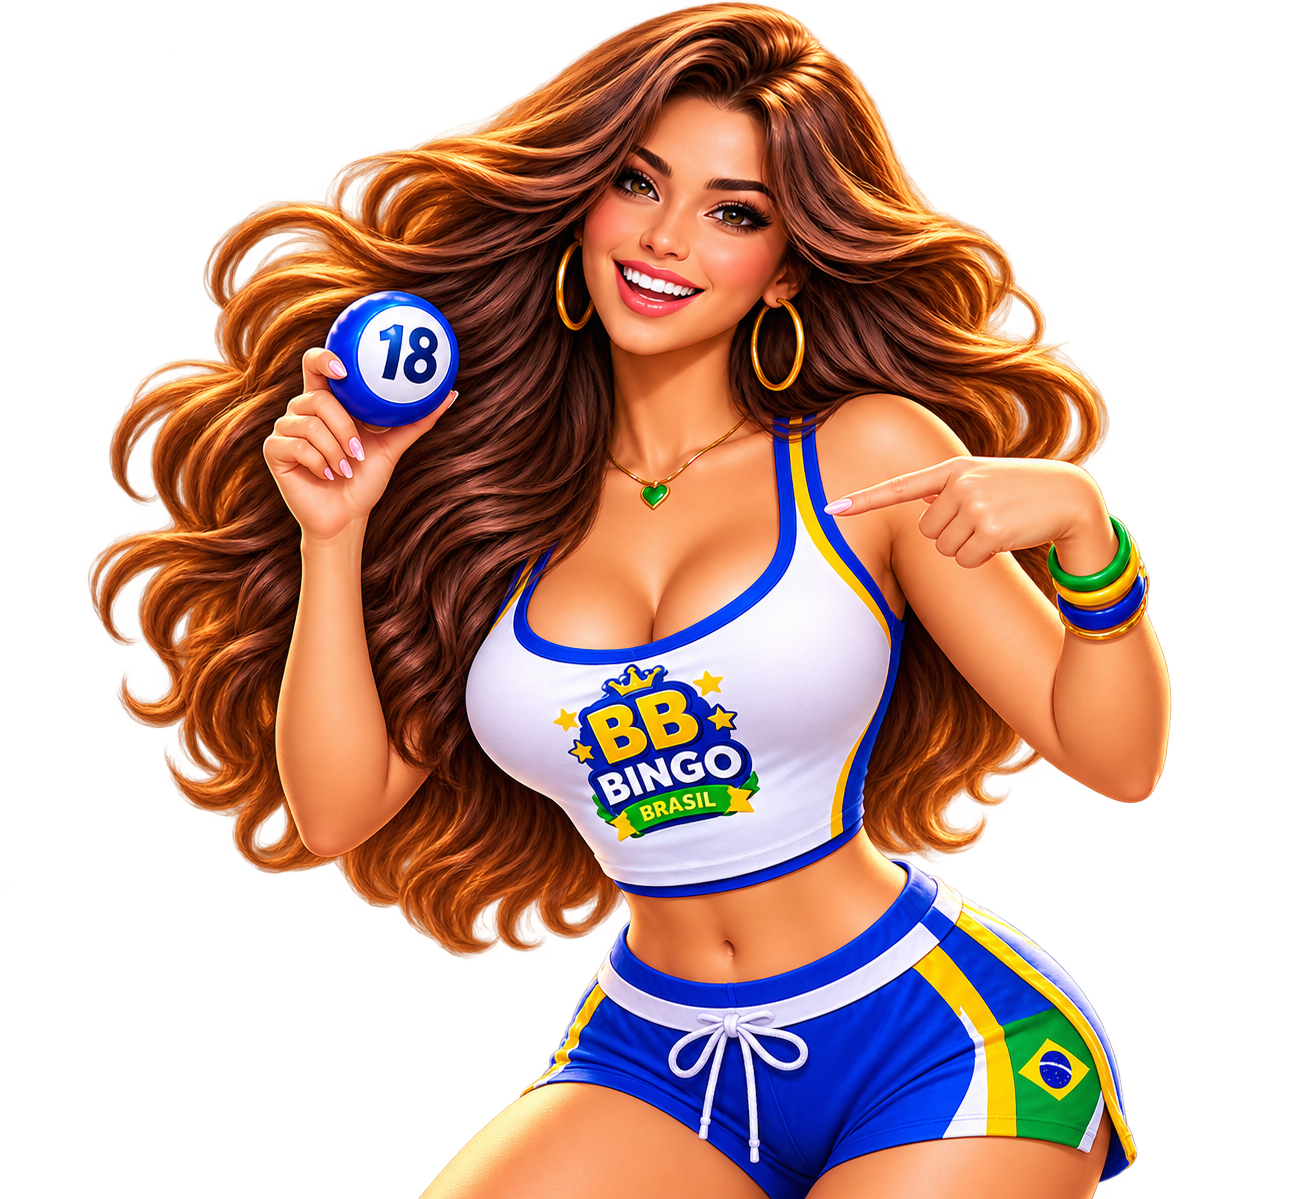
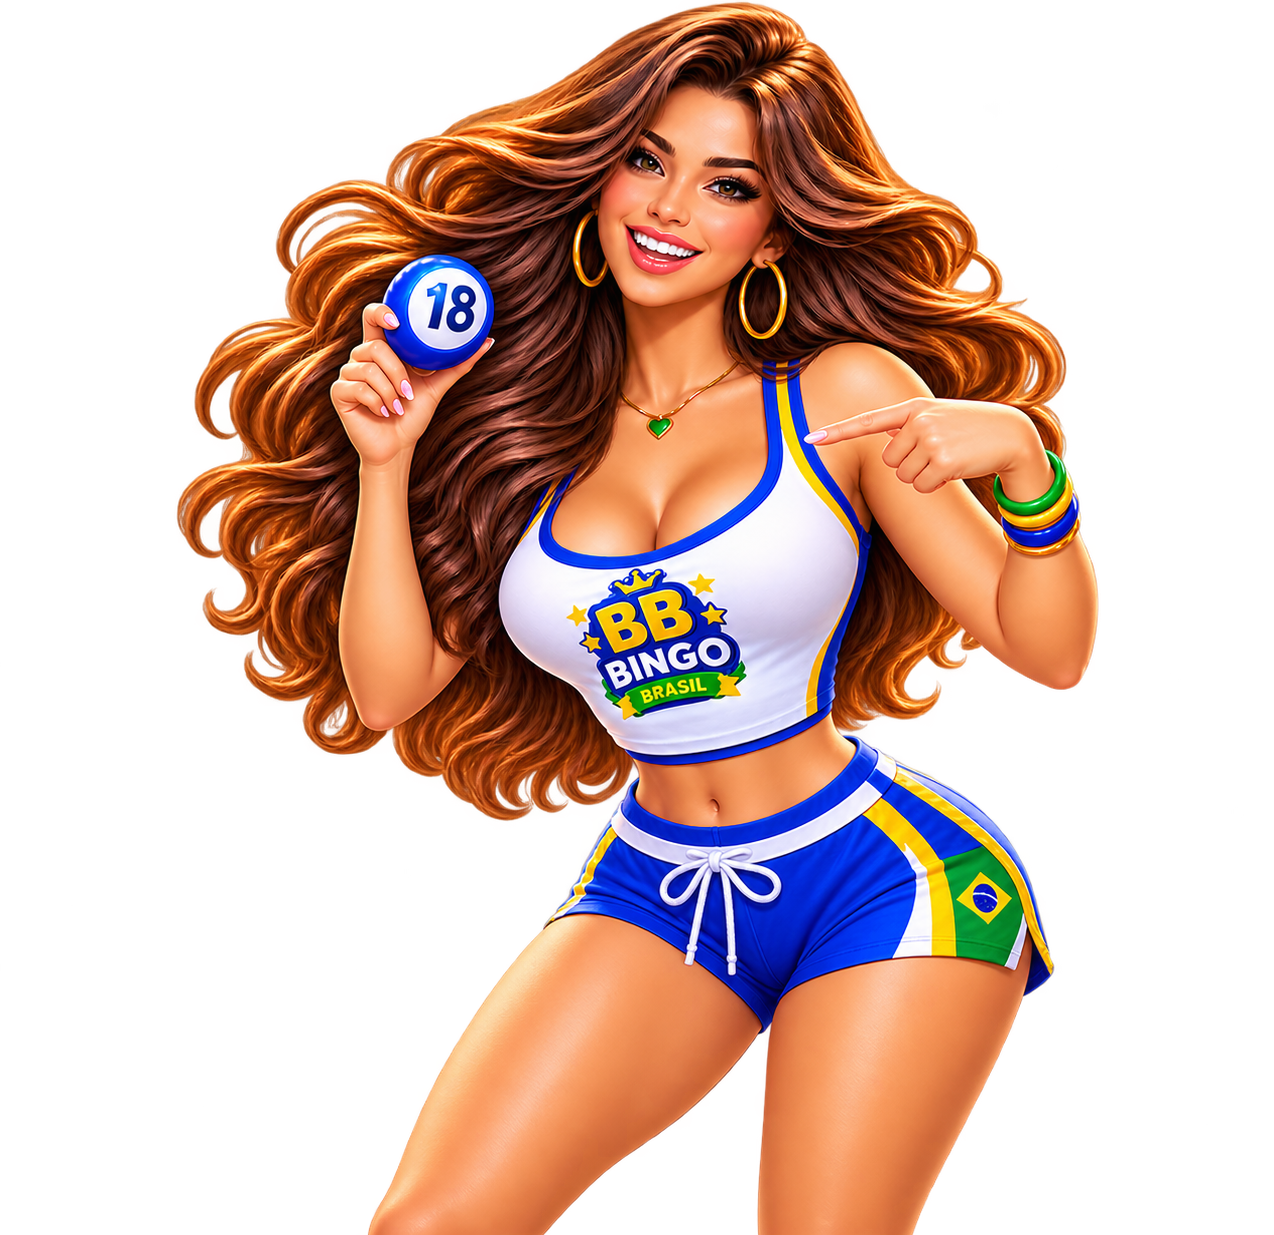
Bingo Brasil - ajuste visual dos anfitrioes

diff --git a/src/app/index.tsx b/src/app/index.tsx
@@ -73,20 +73,29 @@ export default function HomeScreen() {
 
           {/* ANFITRIÕES */}
           <View style={styles.hostsPlaceholder}>
-            <BiancaHost
-              source={require('@/assets/images/REFERENCIA-MESTRE-BIANCA-BOB.png')}
-            />
+            <View style={styles.hostSide}>
+              <BiancaHost
+                source={require('@/assets/images/BIANCA-OFICIAL.png')}
+              />
+            </View>
 
             <View style={styles.hostCenter}>
-              <Text style={styles.hostTitle}>Bianca + Bob</Text>
+              <View style={styles.hostCenterBadge}>
+                <Text style={styles.hostCenterBadgeText}>BB</Text>
+              </View>
+
+              <Text style={styles.hostTitle}>Nossos anfitriões</Text>
+
               <Text style={styles.hostSubtitle}>
-                Seus anfitriões do Bingo Brasil
+                Bianca + Bob
               </Text>
             </View>
 
-            <BobHost
-              source={require('@/assets/images/REFERENCIA-MESTRE-BIANCA-BOB.png')}
-            />
+            <View style={styles.hostSide}>
+              <BobHost
+                source={require('@/assets/images/BOB-OFICIAL.png')}
+              />
+            </View>
           </View>
 
           {/* BOTÃO PRINCIPAL */}
@@ -389,34 +398,64 @@ const styles = StyleSheet.create({
   hostsPlaceholder: {
     marginTop: 22,
     marginBottom: 22,
-    minHeight: 74,
-    borderRadius: 22,
+    minHeight: 360,
+    borderRadius: 24,
     backgroundColor: 'rgba(4, 31, 59, 0.28)',
     borderWidth: 1,
     borderColor: 'rgba(255,255,255,0.16)',
     flexDirection: 'row',
-    alignItems: 'center',
+    alignItems: 'flex-end',
     justifyContent: 'center',
-    paddingHorizontal: 14,
+    paddingHorizontal: 6,
+    overflow: 'hidden',
+  },
+
+  hostSide: {
+    flex: 1,
+    alignSelf: 'stretch',
+    alignItems: 'center',
+    justifyContent: 'flex-end',
   },
 
   hostCenter: {
+    width: 115,
     alignItems: 'center',
-    paddingHorizontal: 16,
-    flex: 1,
+    justifyContent: 'center',
+    paddingBottom: 48,
+    zIndex: 5,
+  },
+
+  hostCenterBadge: {
+    width: 38,
+    height: 38,
+    borderRadius: 19,
+    backgroundColor: '#F6CA5F',
+    borderWidth: 2,
+    borderColor: '#FFFFFF',
+    alignItems: 'center',
+    justifyContent: 'center',
+    marginBottom: 8,
+  },
+
+  hostCenterBadgeText: {
+    color: '#09203C',
+    fontSize: 14,
+    fontWeight: '900',
   },
 
   hostTitle: {
     color: '#FFFFFF',
-    fontSize: 17,
-    fontWeight: '800',
+    fontSize: 13,
+    fontWeight: '900',
+    textAlign: 'center',
   },
 
   hostSubtitle: {
     color: '#B9F0EC',
-    fontSize: 11,
-    marginTop: 4,
+    fontSize: 10,
+    marginTop: 5,
     textAlign: 'center',
+    lineHeight: 14,
   },
 
   playButton: {

diff --git a/src/components/hosts/BiancaHost.tsx b/src/components/hosts/BiancaHost.tsx
@@ -18,12 +18,13 @@ export default function BiancaHost({ source }: BiancaHostProps) {
 
 const styles = StyleSheet.create({
   container: {
+    flex: 1,
     alignItems: 'center',
-    justifyContent: 'center',
+    justifyContent: 'flex-end',
   },
 
   image: {
-    width: 180,
-    height: 240,
+    width: 285,
+    height: 330,
   },
 });

diff --git a/src/components/hosts/BobHost.tsx b/src/components/hosts/BobHost.tsx
@@ -18,12 +18,13 @@ export default function BobHost({ source }: BobHostProps) {
 
 const styles = StyleSheet.create({
   container: {
+    flex: 1,
     alignItems: 'center',
-    justifyContent: 'center',
+    justifyContent: 'flex-end',
   },
 
   image: {
-    width: 180,
-    height: 240,
+    width: 220,
+    height: 330,
   },
 });
